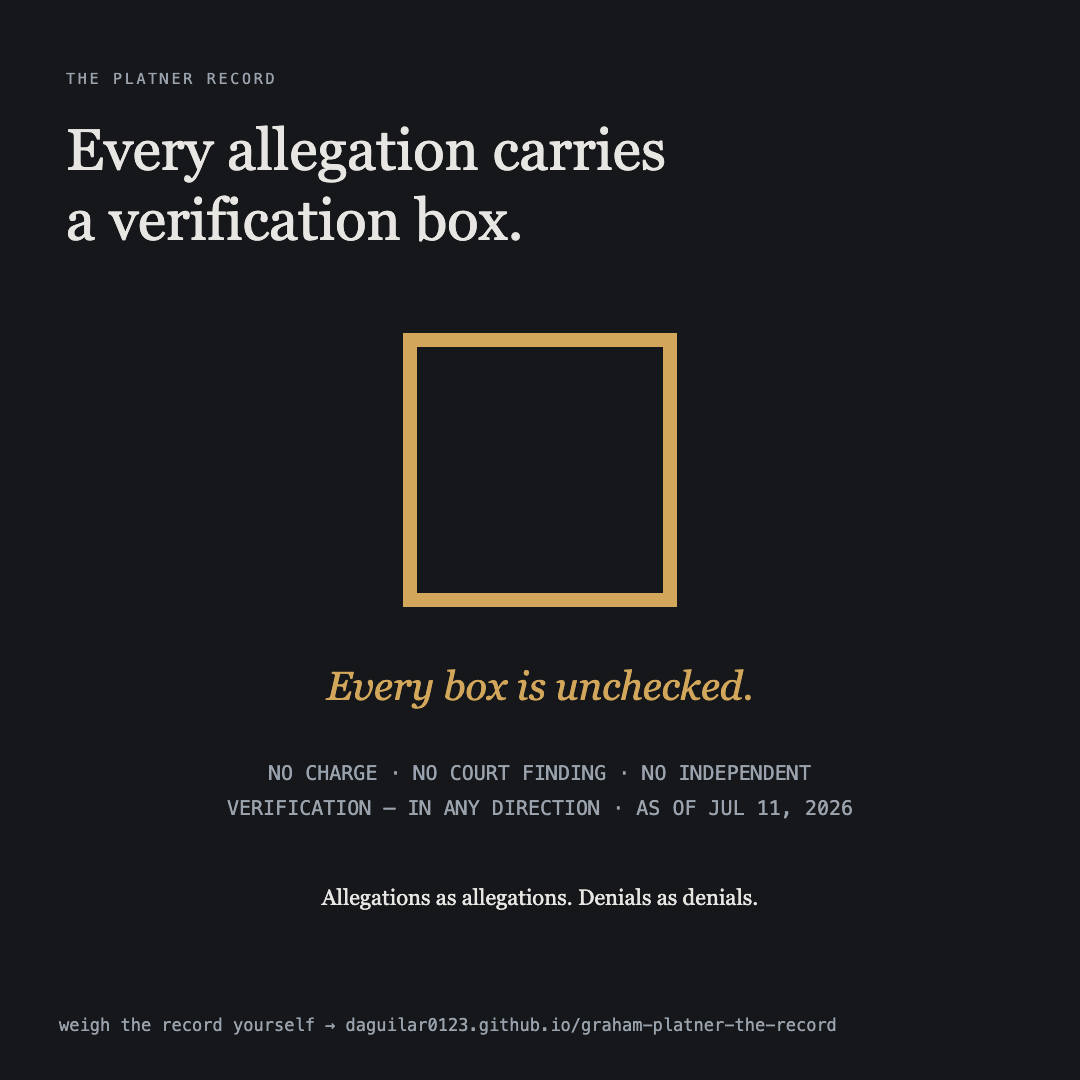
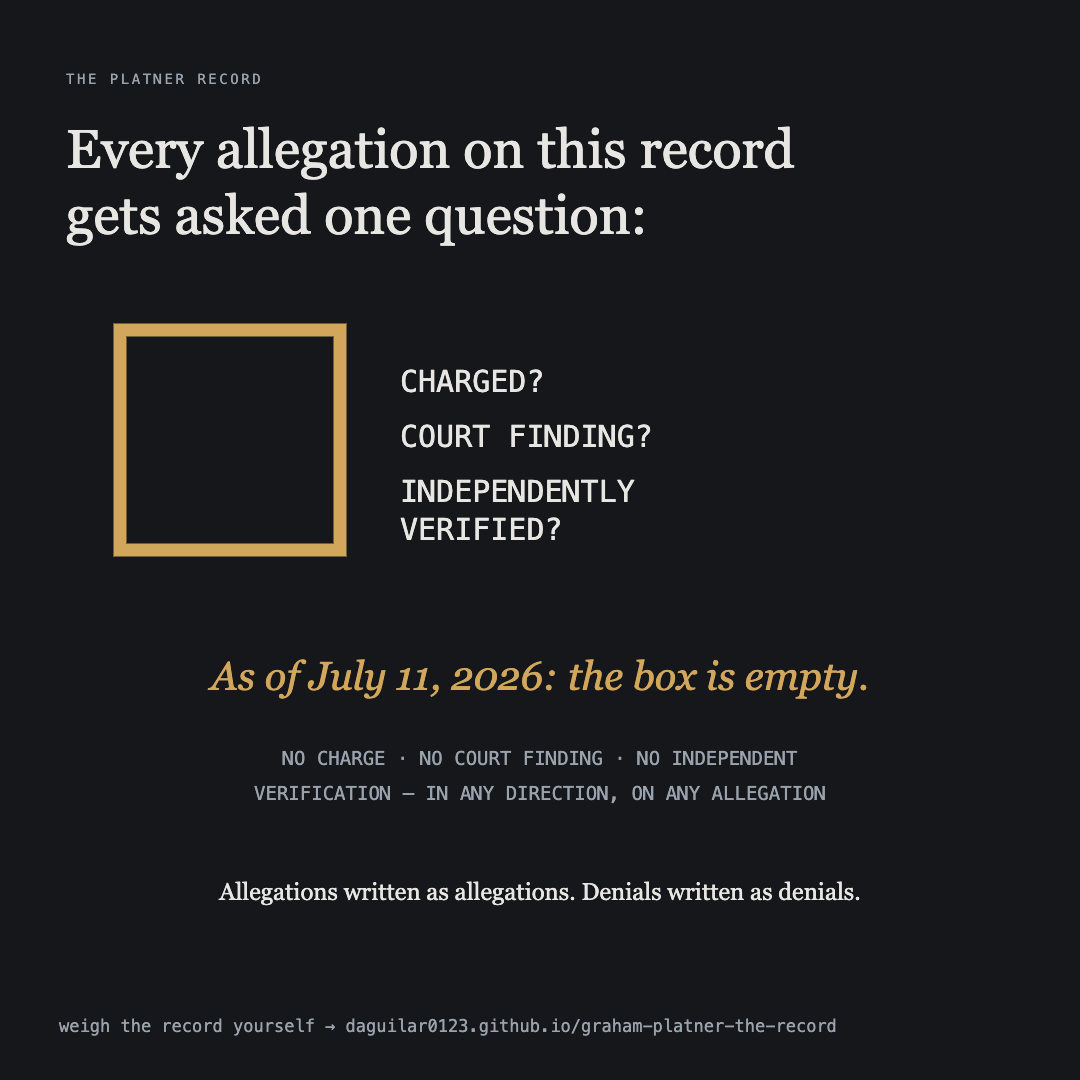
Fifield file: embed the evidence in place; final social kit (2026-07-12c)
Embeds, priority per owner: live > archive > (screenshots not needed)
- 6 confirmed-live items (5,6,7,9,10,11): X embeds, theme-aware, hydrated
  by widgets.js only when live posts render (new external dep, deliberate)
- Item 17 (deleted from X): embeds this repo's OWN preservation copy of
  the Wayback capture -- self-hosted, no external dependency
- 10 archived-only items: click-to-load Wayback iframe (lazy by design;
  ten auto-loading archive.org frames would crush the page)
- Failsafe on both ledger pages: if IntersectionObserver never fires,
  drop the anim class rather than leave a blank page

Social kit: replaced wholesale with final 2026-07-12c pass (44 files)
- New: site banner, 3-part questions series, the-money contrast card,
  2 YT thumbnails, 11 SVG vector masters (documented: edit SVG not PNG)
- Post-swap fixes on the kit: README page mappings + source_page on
  og-1200x630 (the-record.html), og-fifield (fifield-kavanaugh.html),
  yt-thumb-evidence (root)
- Kit's own clarity passes: 'CHARGED? COURT FINDING? INDEPENDENTLY
  VERIFIED?' language, 2041 framing removed, boxes GIF ledger rebuild

Verified: 17 items render, correct embed distribution (6/1/10), item-17
local iframe loads (402KB), click-to-load swap works, 0 console errors.

diff --git a/fifield-kavanaugh.html b/fifield-kavanaugh.html
@@ -105,6 +105,12 @@ header.hero{padding:34px 0 30px}
 ul.gaps{margin:12px 0;padding-left:20px;max-width:80ch}
 ul.gaps li{margin:7px 0;font-size:14px;color:var(--muted)}
 footer.site{border-top:1px solid var(--hair);margin-top:56px;padding:24px 0 70px;font-size:13px;color:var(--muted)}
+.embed{margin:2px 18px 14px}
+.embed iframe{width:100%;height:560px;border:1px solid var(--hair);border-radius:4px;background:#fff}
+.embed .em-lab{font-family:var(--mono);font-size:10px;letter-spacing:.08em;text-transform:uppercase;color:var(--muted);margin-bottom:6px}
+.embed .twitter-tweet{margin:0 auto}
+.embedbtn{font-family:var(--mono);font-size:11.5px;letter-spacing:.04em;cursor:pointer;color:var(--accent);background:var(--surface);border:1px dashed var(--accent);border-radius:4px;padding:9px 14px;width:100%;text-align:left}
+.embedbtn:hover{background:var(--accent-soft,#EAF0F4)}
 </style>
 </head>
 <body>
@@ -191,6 +197,18 @@ footer.site{border-top:1px solid var(--hair);margin-top:56px;padding:24px 0 70px
 <script>
 const esc = s => String(s??"").replace(/&/g,"&amp;").replace(/</g,"&lt;");
 const GTAG = {"VERBATIM-ARCHIVED":"good","VERBATIM-QUOTED":"acc","REPORTED":"warn","PENDING-TRANSCRIPTION":"warn","VERBATIM-LIVE":"good"};
+const DARKMODE = matchMedia("(prefers-color-scheme: dark)").matches;
+// Embed priority: live post on X > this repo's own preservation copy > Wayback capture (click-to-load).
+const embedHtml = it => {
+  if(it.live_status && it.live_status.startsWith("live") && /\/status\//.test(it.status_url||"")){
+    return `<div class="embed"><div class="em-lab">Embedded live from X — if this ever fails to load, the archive links below are the record</div><blockquote class="twitter-tweet" data-dnt="true" data-theme="${DARKMODE?"dark":"light"}"><a href="${esc(it.status_url)}">View the live post on X</a></blockquote></div>`;
+  }
+  const local = (it.evidence||[]).find(e=>/^documents\//.test(e.url||""));
+  if(local) return `<div class="embed"><div class="em-lab">Embedded: this repo's own preservation copy of the Wayback capture</div><iframe src="${esc(local.url)}" loading="lazy" title="Preserved archive capture of item ${it.n}"></iframe></div>`;
+  const wb = (it.evidence||[]).find(e=>/web\.archive\.org/.test(e.url||""));
+  if(wb) return `<div class="embed"><button type="button" class="embedbtn" data-src="${esc(wb.url)}" data-n="${it.n}">▶ Load archived capture in place — ${esc(wb.label)}</button></div>`;
+  return "";
+};
 fetch("data/fifield-kavanaugh.json").then(r=>r.json()).then(D=>{
   document.getElementById("keydates").textContent = "2018 reference dates: " + D.key_dates_2018 + ".";  document.getElementById("items-out").innerHTML = D.items.map(it=>`
     <div class="item${it.featured?" featured":""}">
@@ -204,6 +222,7 @@ fetch("data/fifield-kavanaugh.json").then(r=>r.json()).then(D=>{
       </header>
       ${it.text!==null?`<blockquote>${esc(it.text)}</blockquote>`:`<blockquote class="pend">[ Text pending transcription — the owner-captured archive snapshot below is the only known copy; open it to read the post. ]</blockquote>`}
       <div class="ctx">${esc(it.context)}</div>
+      ${embedHtml(it)}
       <div class="links">
         <a href="${esc(it.status_url)}">original post ↗</a>
         ${(it.evidence||[]).map(e=>`<a href="${esc(e.url)}">${esc(e.label)} ↗</a>`).join("")}
@@ -212,6 +231,19 @@ fetch("data/fifield-kavanaugh.json").then(r=>r.json()).then(D=>{
       ${(it.thread||[]).length?`<div class="thread"><div class="th-lab">The ensuing conversation, from the same archived page</div>${it.thread.map(t=>`<div class="titem${t.hers?" hers":""}"><div class="who">${esc(t.who)}</div><blockquote>${esc(t.text)}</blockquote></div>`).join("")}</div>`:""}
       ${it.analysis?`<div class="interp" style="margin:0 18px 16px"><div class="lab">Interpretive — descriptive analysis, not a value judgment · confidence: ${esc(it.analysis.confidence)}</div><p><b>What it's about:</b> ${esc(it.analysis.about)}</p><p><b>Purpose / intended message (as best read):</b> ${esc(it.analysis.purpose)}</p>${it.analysis.posture_and_position?`<p><b>Posture and actual position:</b> ${esc(it.analysis.posture_and_position)}</p>`:""}</div>`:""}
     </div>`).join("");
+  // Click-to-load for Wayback iframes (kept lazy: 10 auto-loading archive.org frames would crush the page)
+  document.getElementById("items-out").addEventListener("click",ev=>{
+    const b = ev.target.closest(".embedbtn"); if(!b) return;
+    const f = document.createElement("iframe");
+    f.src = b.dataset.src; f.loading = "lazy"; f.title = "Archived capture of item " + b.dataset.n;
+    b.replaceWith(f);
+  });
+  // Hydrate X embeds only if any live posts rendered
+  if(document.querySelector(".twitter-tweet")){
+    const s = document.createElement("script");
+    s.src = "https://platform.twitter.com/widgets.js"; s.async = true; s.charset = "utf-8";
+    document.body.appendChild(s);
+  }
   if(D.posture_analysis){
     const P = D.posture_analysis;
     document.getElementById("posture-out").innerHTML = `
@@ -239,6 +271,8 @@ fetch("data/fifield-kavanaugh.json").then(r=>r.json()).then(D=>{
     document.body.classList.add('anim');
     const io=new IntersectionObserver(es=>es.forEach(e=>{if(e.isIntersecting){e.target.classList.add('in');io.unobserve(e.target)}}),{rootMargin:'0px 0px -8% 0px'});
     document.querySelectorAll('.item,.qitem').forEach(el=>io.observe(el));
+    // Failsafe: if the observer never fires (blocked/unsupported), reveal everything rather than show a blank ledger
+    setTimeout(()=>{if(!document.querySelector('.item.in'))document.body.classList.remove('anim')},1200);
   }
 }).catch(()=>{
   document.getElementById("items-out").innerHTML = '<p class="note">Could not load data/fifield-kavanaugh.json — serve this page over HTTP or view the published site.</p>';

diff --git a/the-record.html b/the-record.html
@@ -367,6 +367,8 @@ async function boot(){
     const io=new IntersectionObserver(es=>es.forEach(e=>{if(e.isIntersecting){e.target.classList.add('in');io.unobserve(e.target)}}),{rootMargin:'0px 0px -8% 0px'});
     const arm=()=>document.querySelectorAll('.alcard,.rec,.tiles,.claim,.mstone').forEach(el=>{if(!el.classList.contains('reveal')){el.classList.add('reveal');io.observe(el)}});
     arm(); window.__armReveal=arm;
+    // Failsafe: if the observer never fires (blocked/unsupported), reveal everything rather than show a blank page
+    setTimeout(()=>{if(!document.querySelector('.reveal.in'))document.body.classList.remove('anim')},1200);
   }else{window.__armReveal=()=>{};}
   let L,A,M;
   try{

diff --git a/social/README-metadata.md b/social/README-metadata.md
@@ -27,3 +27,34 @@ For fuller EXIF/XMP/IPTC embedding (per HANDOFF.md §5), run exiftool with the s
 | waves-teaser-animated.gif | three wave bands → the timing quote | waves-teaser-animated.gif.json |
 
 Each GIF carries an embedded comment block: “(c) 2026 Daniel Ismael Aguilar - https://grownfromconcrete.org - The Platner Record”. 640×640, infinite loop.
+
+## YouTube thumbnails (added 2026-07-12)
+
+| Image | Argument | Sidecar |
+|---|---|---|
+| yt-thumb-demanded-1280x720.png | Q1 — withdrawal demanded, investigation never | yt-thumb-demanded-1280x720.png.json |
+| yt-thumb-evidence-1280x720.png | Q2 — “reviewed the evidence” vs testing it | yt-thumb-evidence-1280x720.png.json |
+
+## Revision 2026-07-12 (clarity pass)
+
+- All “his” attributions now use Platner’s name; “verification boxes” language replaced with the explicit question “CHARGED? COURT FINDING? INDEPENDENTLY VERIFIED?”
+- boxes-teaser-animated.gif rebuilt as a ledger (5 allegations, 2 named accusers) to prevent the “five accusers” misread.
+- og-1200x630-fifield.png adds the method line (automated archive sweep, human-checked).
+- NEW three-part series: questions-part1/2/3-1200x630.png + og-1200x630-questions.png as series cover. Part 3 cites 17-A M.R.S. §8(2-A) (20 years, clock to ~2041).
+
+## Revision 2026-07-12b (marketing pass)
+
+- NEW banner-site-1500x500 (site-promotion banner; also fits X/Twitter header).
+- NEW the-money-1200x630 (contrast card linking the campaign-finance ledger).
+- Vector masters: every card revised in this pass ships as .svg next to its .png — edit the SVG, not the PNG. Photo composites (yt-thumb-*) and GIFs are raster-only.
+- boxes-teaser-animated.gif reworded — allegation specifics removed from marketing copy.
+- questions-part3 + series cover: 2041 framing removed, replaced with the “then charge him” argument.
+- og-1200x630-fifield: explicit 2018-vs-2026 contrast, “We have the receipts.”
+- ig-1080x1080 closing line: “Allegations written as allegations. Denials written as denials.”
+
+## Revision 2026-07-12c (final metadata pass)
+
+- SVG masters now exist for EVERY still card (11 .svg files). yt-thumb-* are photo composites (raster-only); GIFs are raster by format.
+- Every PNG carries embedded tEXt: Title, Description, Alt, Author, Copyright (+attribution URL), Keywords (SEO), Software.
+- Every SVG carries <title>, <desc> (alt text), and an RDF/Dublin Core metadata block (creator, rights, subject keywords, date, source).
+- Banner footer now reads “draw your own conclusions · our bias made clear”.
